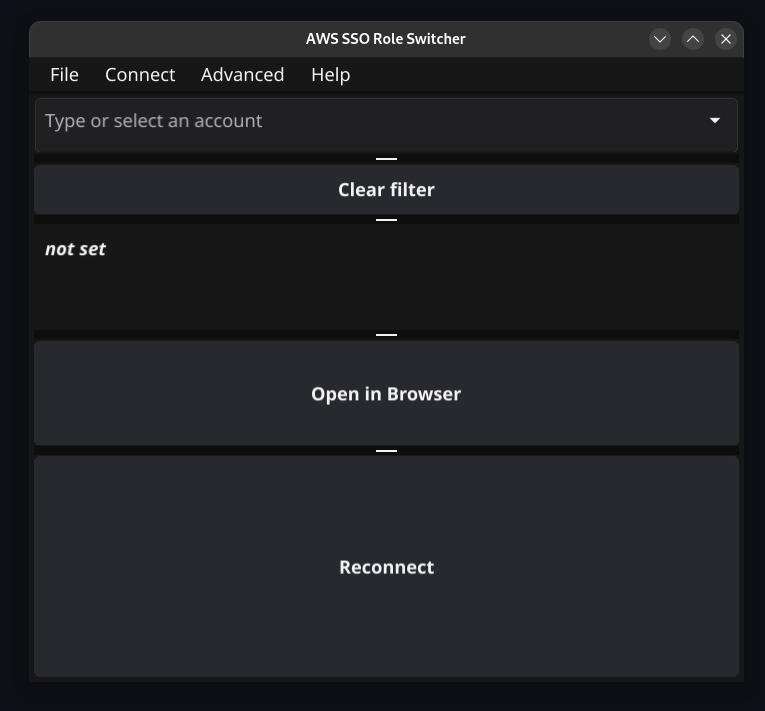
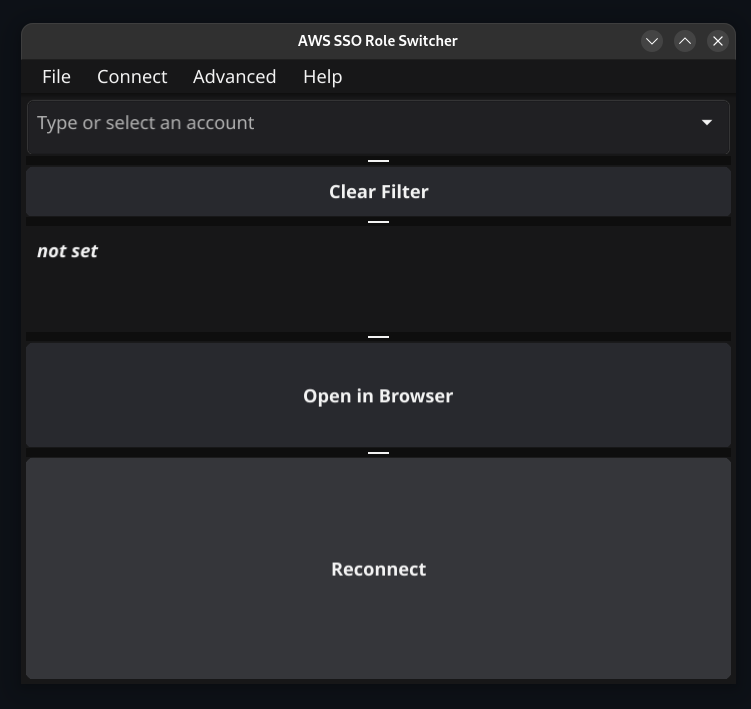
small typo fix

diff --git a/main.go b/main.go
@@ -123,7 +123,7 @@ func main() {
 		idp.LoginBrowser(accountName.Text, awsSession, SettingsInterface, multisessionEnabled)
 	})
 
-	clearFilter := widget.NewButton("Clear filter", func() {
+	clearFilter := widget.NewButton("Clear Filter", func() {
 		accountSelectEntry.SetText("")
 	})
 
